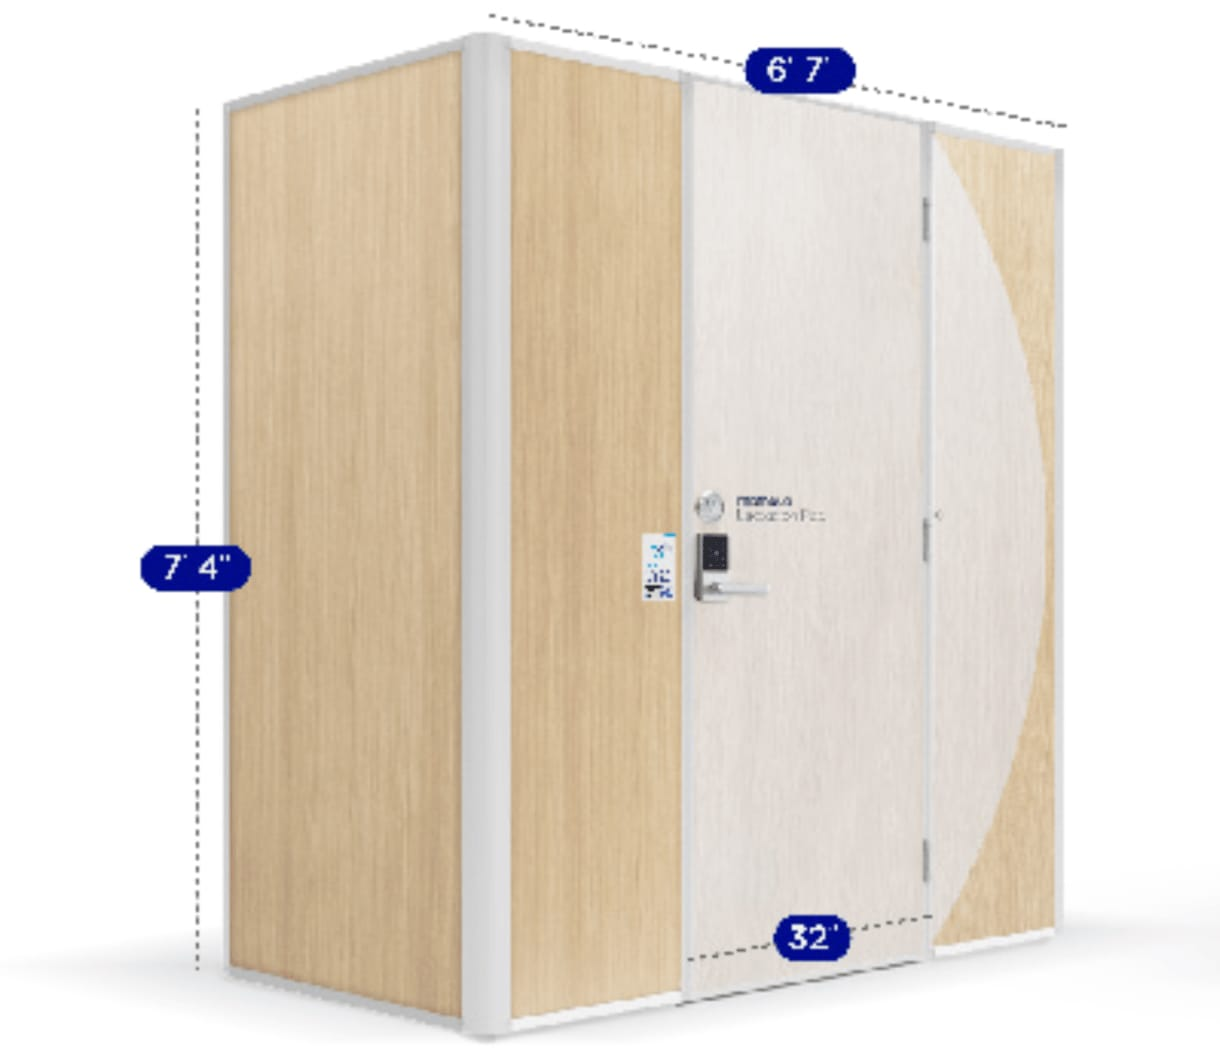
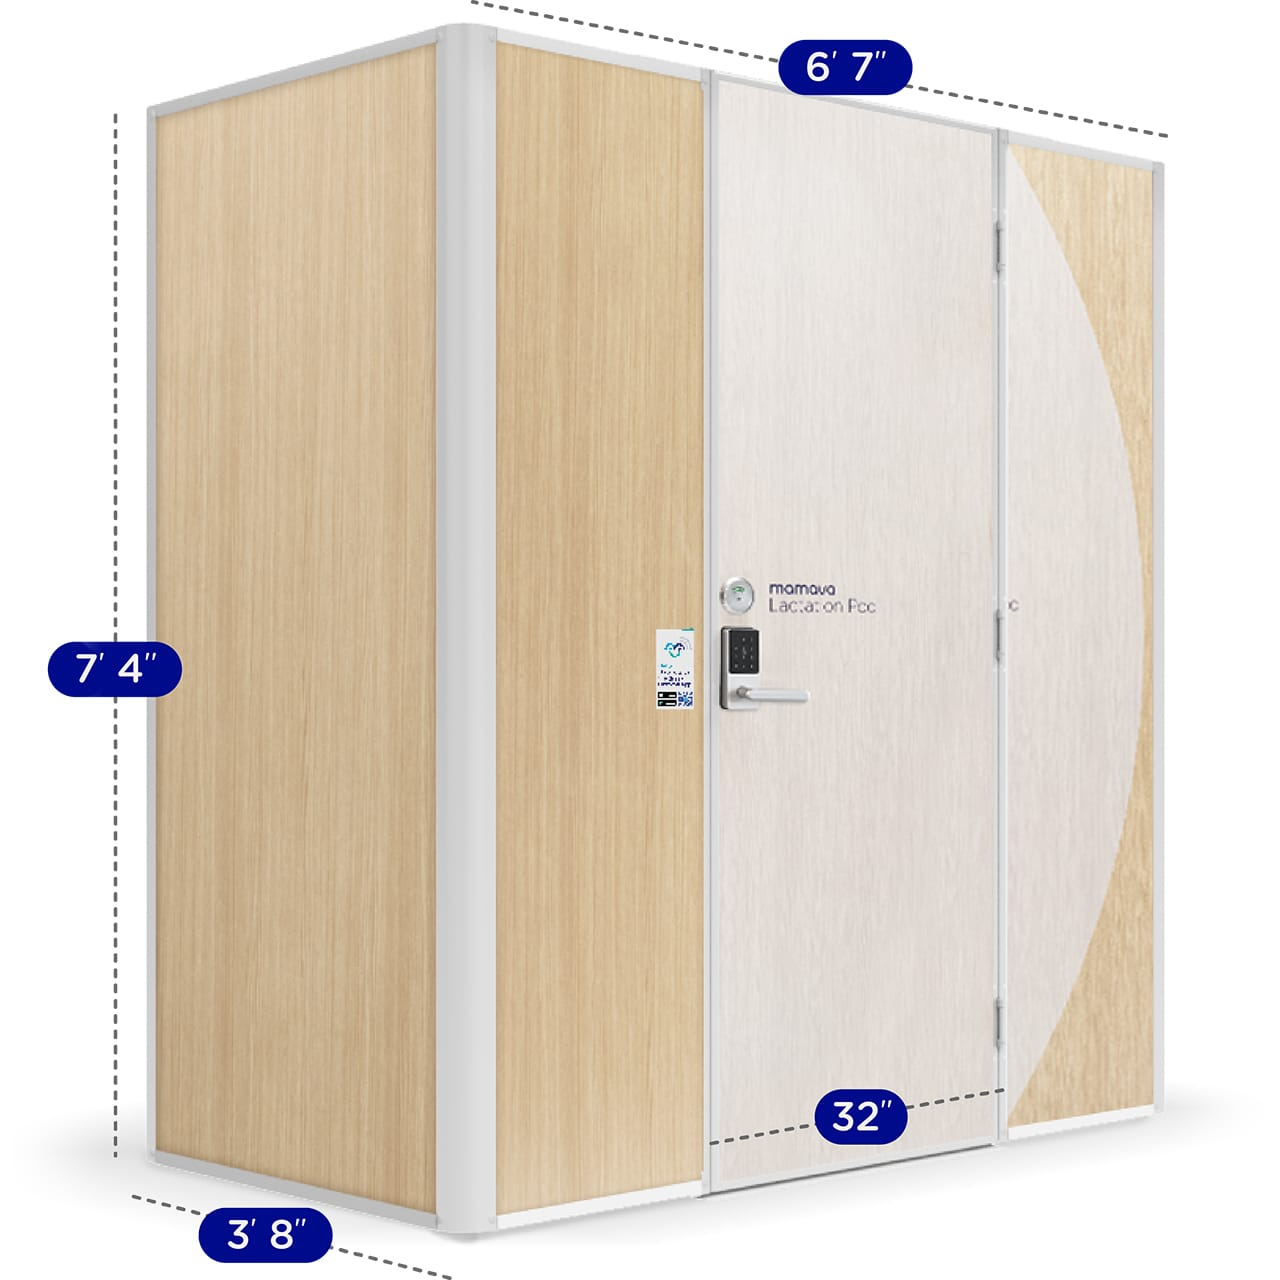
add featured grid, update flex illustration, etc

Changed region(s): [[0.0311, 0.0, 0.9344, 0.9962], [0.7475, 0.467, 0.8098, 0.5292], [0.3426, 0.9962, 0.3738, 1.0]]

diff --git a/index.html b/index.html
@@ -25,13 +25,13 @@
                         <div class="hero-heading">
                             <p>Lactation Pod</p>
                             <h1>Mamava Flex</h1>
-                            <h2>An all-in-one lactation space designed for workspaces and public places</h2>
+                            <!-- <h2>An all-in-one lactation space designed for workspaces and public places</h2> -->
                         </div>
                         <div class="hero-card">
                             <div class="dimensions">
-                                <img src="/icon-flex.svg" width="138" height="169" alt="" />
+                                <img src="/flex-outlines.svg" width="519" height="657" alt="" />
                                 <p>
-                                    6&rsquo;7&rdquo; W x 3&rsquo;8&rdquo; D x 7&rsquo;9&rdquo;<br />
+                                    6&rsquo;7&rdquo; W x 3&rsquo;8&rdquo; D x 7&rsquo;4&rdquo; H<br />
                                     24 sq ft &bull; 465 lb<br />
                                     <a href="#specs">View all specs</a>
                                 </p>
@@ -64,9 +64,31 @@
                     </div>
                 </div>
             </section>
-            <section class="usp-features">
+            <section class="default-content">
                 <div class="container">
-                    <img src="/usp-features.png" width="3580" height="600" />
+                    <div class="content-grid">
+                        <div class="content-grid-column">
+                            <div class="icon-card">
+                                <img class="icon" src="/icon-premium.svg" width="50" height="50" alt="" />
+                                <h2>Premium Product</h2>
+                                <p>Quality construction, tech-enhanced, and legally compliant</p>
+                            </div>
+                        </div>
+                        <div class="content-grid-column">
+                            <div class="icon-card">
+                                <img class="icon" src="/icon-comfortable.svg" width="50" height="50" alt="" />
+                                <h2>Trusted Partner</h2>
+                                <p>Supporting thousands of customers and millions of parents since 2013</p>
+                            </div>
+                        </div>
+                        <div class="content-grid-column">
+                            <div class="icon-card">
+                                <img class="icon" src="/icon-maintenance.svg" width="50" height="50" alt="" />
+                                <h2>Comprehensive Solution</h2>
+                                <p>Education, needs assessments, installation, and service</p>
+                            </div>
+                        </div>
+                    </div>
                 </div>
             </section>
             <section class="features" id="features-section-1">
@@ -86,7 +108,7 @@
                                 </div>
                                 <div class="benefit benefit-1">
                                     <h2 data-scroll-target="access">
-                                        <img src="/icon-access.svg" width="30px" height="30px" />
+                                        <img src="/icon-access.svg" width="30" height="30" />
                                         Access
                                     </h2>
                                     <ul>
@@ -96,7 +118,7 @@
                                 </div>
                                 <div class="benefit benefit-2">
                                     <h2 data-scroll-target="assembly">
-                                        <img src="/icon-assembly.svg" width="30px" height="30px" />
+                                        <img src="/icon-assembly.svg" width="30" height="30" />
                                         Installation
                                     </h2>
                                     <ul>
@@ -107,7 +129,7 @@
                                 </div>
                                 <div class="benefit benefit-3">
                                     <h2 data-scroll-target="maintenance">
-                                        <img src="/icon-maintenance.svg" width="30px" height="30px" />
+                                        <img src="/icon-maintenance.svg" width="30" height="30" />
                                         Maintenance
                                     </h2>
                                     <ul>
@@ -117,7 +139,7 @@
                                 </div>
                                 <div class="benefit benefit-4">
                                     <h2 data-scroll-target="mobility">
-                                        <img src="/icon-mobility.svg" width="30px" height="30px" />
+                                        <img src="/icon-mobility.svg" width="30" height="30" />
                                         Mobility
                                     </h2>
                                     <ul>
@@ -155,7 +177,7 @@
                                 </div>
                                 <div class="benefit benefit-1">
                                     <h2 data-scroll-target="flexible">
-                                        <img src="/icon-flexible.svg" width="30px" height="30px" />
+                                        <img src="/icon-flexible.svg" width="30" height="30" />
                                         Flexible
                                     </h2>
                                     <ul>
@@ -165,7 +187,7 @@
                                 </div>
                                 <div class="benefit benefit-2">
                                     <h2 data-scroll-target="comfortable">
-                                        <img src="/icon-comfortable.svg" width="30px" height="30px" />
+                                        <img src="/icon-comfortable.svg" width="30" height="30" />
                                         Comfortable
                                     </h2>
                                     <ul>
@@ -177,7 +199,7 @@
                                 </div>
                                 <div class="benefit benefit-3">
                                     <h2 data-scroll-target="discreet">
-                                        <img src="/icon-discreet.svg" width="30px" height="30px" />
+                                        <img src="/icon-discreet.svg" width="30" height="30" />
                                         Discreet
                                     </h2>
                                     <ul>
@@ -235,8 +257,8 @@
                     <div class="swiper cards">
                         <div class="swiper-wrapper">
                             <div class="swiper-slide card dimensions">
-                                <img src="/specs-1.jpg" width="1220" height="1060" />
-                                <img src="/specs-2.jpg" width="1220" height="1060" />
+                                <img src="/specs-1.jpg" width="1280" height="1280" />
+                                <img src="/specs-2.jpg" width="1280" height="1280" />
                                 <ul>
                                     <li>
                                         <h2>Dimensions</h2>
@@ -343,7 +365,6 @@
                         </div>
                     </div>
                 </div>
-                <!-- <img src="/specs.png" width="3840" height="2100" /> -->
             </section>
             <section class="conclusion">
                 <div class="container">

diff --git a/styles/main.scss b/styles/main.scss
@@ -14,7 +14,7 @@ body {
     height: 100%;
     margin: 0;
     font-family: "proxima-soft", sans-serif;
-    color: $navy;
+    color: $dark-navy;
 }
 
 *,
@@ -34,6 +34,7 @@ h1 {
     font-weight: $font-weight-semibold;
     font-size: clampValues(36, 60, $sm, $xl);
     line-height: 1;
+    color: $navy;
 }
 
 h2 {
@@ -41,6 +42,15 @@ h2 {
     font-weight: $font-weight-semibold;
     font-size: clampValues(24, 30, $sm, $xl);
     line-height: 1;
+    color: $navy;
+}
+
+p {
+    margin-top: 0;
+
+    &:last-child {
+        margin-bottom: 0;
+    }
 }
 
 .btn-primary {
@@ -64,6 +74,52 @@ h2 {
     text-align: center;
 }
 
+.icon-card {
+    display: flex;
+    flex-direction: column;
+    gap: 20px;
+    max-width: 360px;
+    margin: 0 auto;
+    font-size: clampValues(18, 22, $sm, $xl);
+    color: $dark-navy;
+
+    .icon {
+        width: 50px;
+        height: 50px;
+    }
+
+    h2 {
+        margin-bottom: 0;
+    }
+}
+
+.content-grid {
+    display: flex;
+    flex-direction: column;
+
+    .content-grid-column {
+        padding: clampValues(40, 60, $sm, $md);
+        border-bottom: 1px solid $cream;
+    }
+
+    @include md {
+        flex-flow: row wrap;
+        justify-content: space-around;
+        gap: clampValues(30, 60, $md, $xl) 0;
+
+        .content-grid-column {
+            width: 33.33%;
+            padding: clampValues(20, 60, $md, $xl);
+            border-left: 1px solid $cream;
+            border-bottom: none;
+
+            &:nth-child(3n + 1) {
+                border-left: none;
+            }
+        }
+    }
+}
+
 header {
     position: fixed;
     z-index: 10;
@@ -82,6 +138,10 @@ section {
     position: relative;
     z-index: 3;
     background-color: white;
+}
+
+section.default-content {
+    padding: clampValues(60, 120, $sm, $xl) 0 0;
 }
 
 .container {
@@ -131,6 +191,7 @@ section.hero {
         height: calc(100vh - 6.38vw);
         overflow: hidden;
         border-radius: 20px;
+        background-color: $cream;
     }
 
     video {
@@ -164,14 +225,14 @@ section.hero {
 
         p {
             margin: 0;
-            font-size: clampValues(19, 22, $sm, $xl);
-            font-weight: $font-weight-regular;
-            color: $dark-navy;
+            font-size: clampValues(36, 48, $sm, $xl);
+            font-weight: $font-weight-light;
+            line-height: 1;
         }
 
         h1 {
-            margin: 0;
-            font-size: clampValues(42, 80, $sm, $xl);
+            margin: 0 0 clampValues(10, 24, $sm, $xl);
+            font-size: clampValues(60, 120, $sm, $xl);
         }
 
         h2 {
@@ -188,8 +249,8 @@ section.hero {
         flex-direction: column;
         gap: clampValues(20, 30, $sm, $xl);
         width: 50%;
-        min-width: 340px;
-        max-width: 420px;
+        min-width: 360px;
+        max-width: 440px;
         padding: clampValues(20, 40, $sm, $xl) clampValues(30, 50, $sm, $xl);
         border-radius: 10px;
         border: 1px solid rgba(255, 255, 255, 0.35);
@@ -203,7 +264,7 @@ section.hero {
             gap: 20px;
 
             img {
-                width: clampValues(50, 80, $sm, $xl);
+                width: clampValues(70, 100, $sm, $xl);
                 height: auto;
             }
 
@@ -211,7 +272,6 @@ section.hero {
                 margin: 0;
                 font-size: clampValues(16, 20, $sm, $xl);
                 font-weight: $font-weight-regular;
-                color: $dark-navy;
             }
 
             a {
@@ -302,10 +362,6 @@ section.tour {
     }
 }
 
-section.usp-features {
-    padding: vwmin(100px) 0 0;
-}
-
 section.features {
     position: relative;
 
@@ -321,11 +377,6 @@ section.features {
     p {
         margin: 0;
         font-size: clampValues(18, 22, $sm, $xl);
-        color: $dark-navy;
-    }
-
-    li {
-        color: $dark-navy;
     }
 
     .features-pin {
